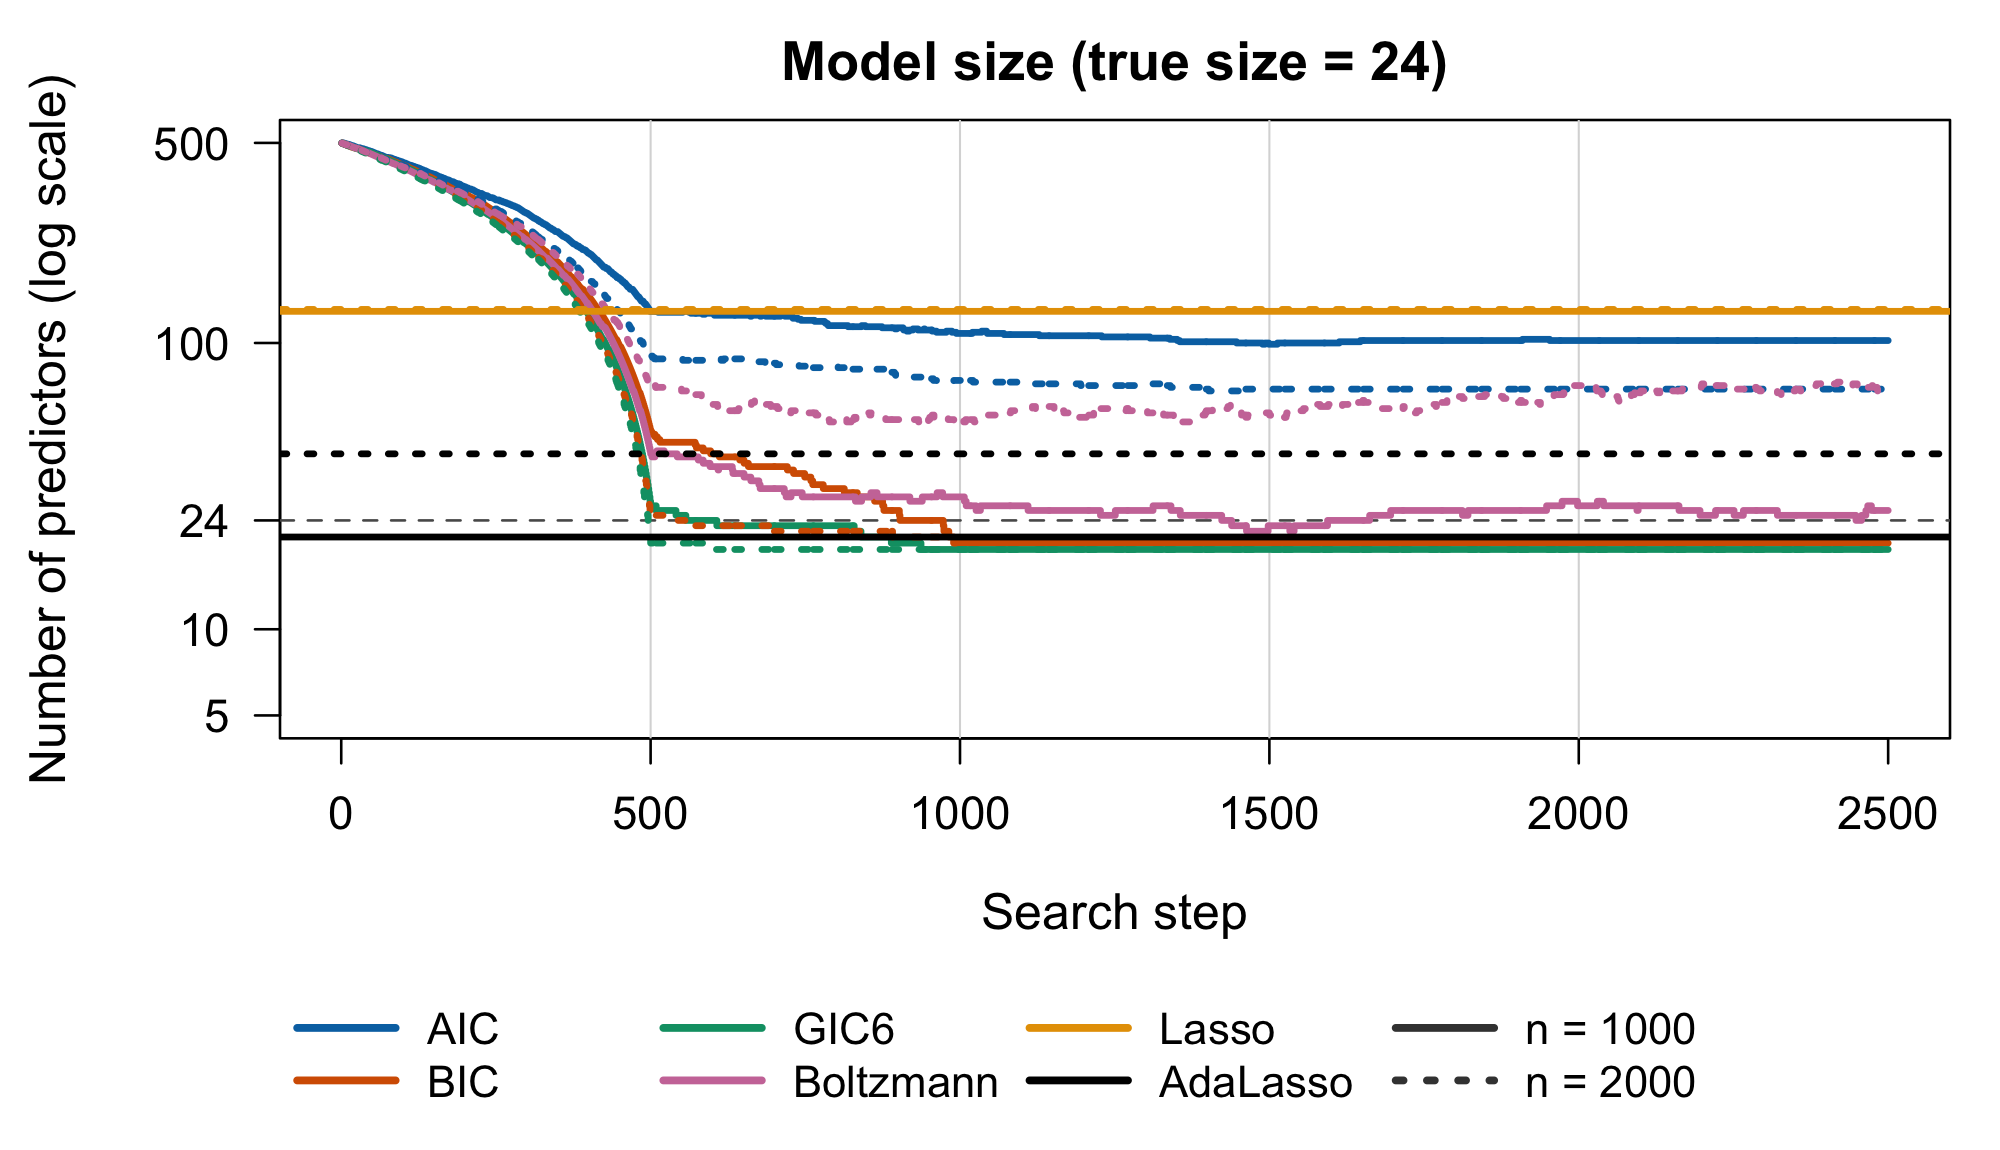
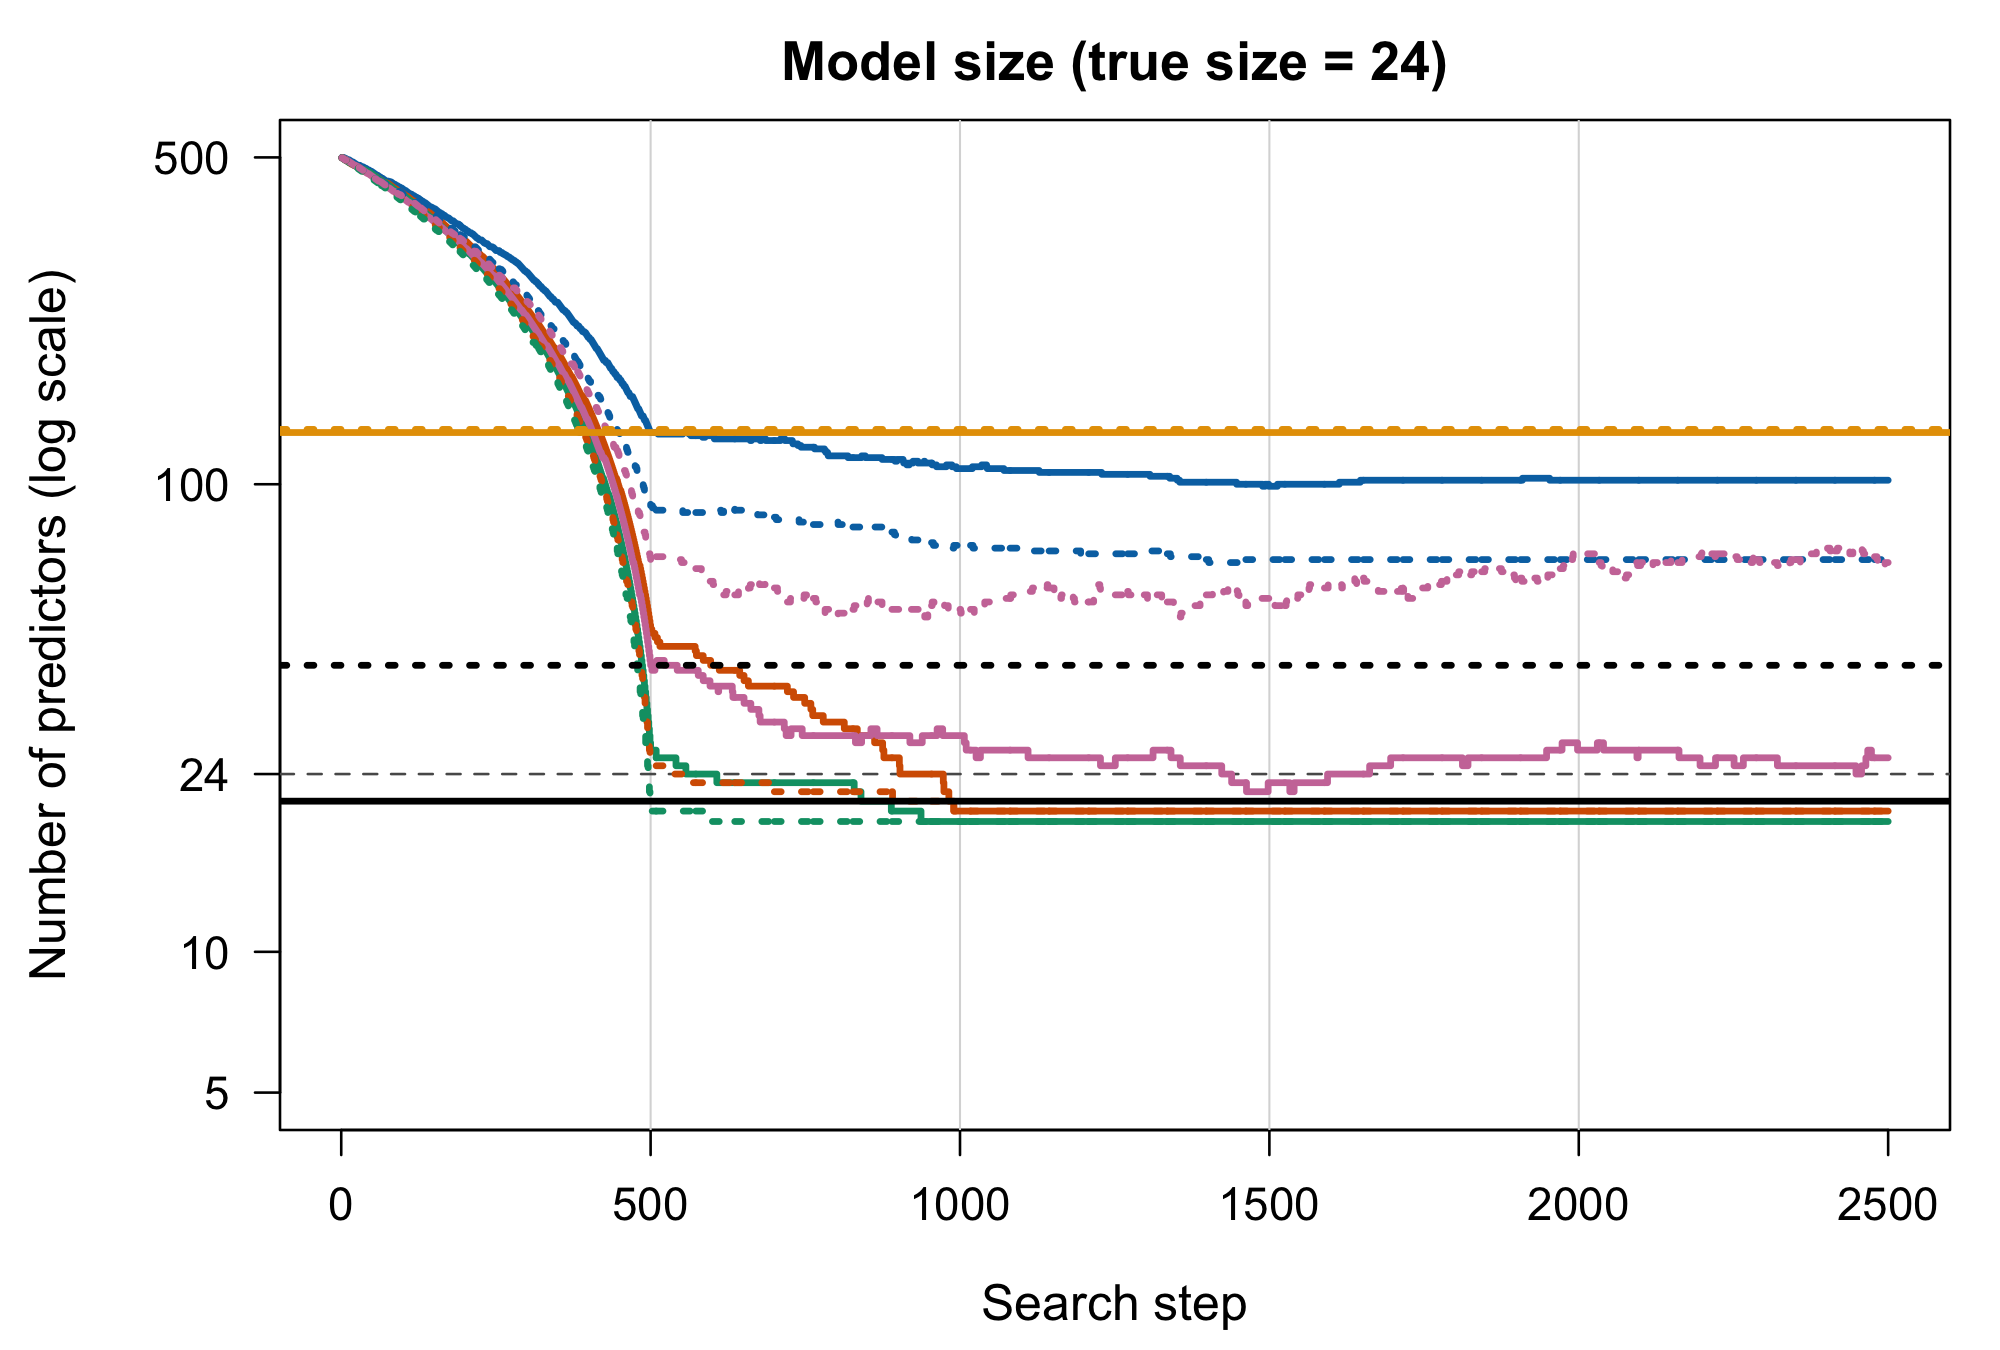
Examples: drop the figure legends and make the figures taller
The run-time figure labels each method's colour and the text says which line
type is which sample size, so the figures need no legend. Rerunning the
examples refreshed the run times.

diff --git a/README.md b/README.md
@@ -310,16 +310,16 @@ Y <- LP_to_Y(X, beta, family = "Normal", std = sqrt(sum(beta^2) / 0.71))
 fits <- compare_criteria(X, Y, 1:p, k = p, Nsim = 5)
 selection_table(fits, true_cols)
 #>                 size false_pos false_neg seconds
-#> n1000 AIC        152       147         0    0.61
-#> n1000 BIC          8         3         0    0.58
+#> n1000 AIC        152       147         0    0.63
+#> n1000 BIC          8         3         0    0.59
 #> n1000 GIC6         5         0         0    0.38
-#> n1000 Boltzmann    5         0         0    0.41
-#> n1000 Lasso       22        17         0    0.82
-#> n1000 AdaLasso    25        20         0    1.63
-#> n2000 AIC        116       111         0    0.63
-#> n2000 BIC          9         4         0    0.67
-#> n2000 GIC6         5         0         0    0.74
-#> n2000 Boltzmann    5         0         0    0.62
+#> n1000 Boltzmann    5         0         0    0.43
+#> n1000 Lasso       22        17         0    0.84
+#> n1000 AdaLasso    25        20         0    1.62
+#> n2000 AIC        116       111         0    0.67
+#> n2000 BIC          9         4         0    0.70
+#> n2000 GIC6         5         0         0    0.66
+#> n2000 Boltzmann    5         0         0    0.63
 #> n2000 Lasso       18        13         0    0.94
 #> n2000 AdaLasso    24        19         0    2.58
 ```
@@ -352,18 +352,18 @@ fits <- compare_criteria(X, Y_multi, 1:p, k = p, Nsim = 5,
                          lasso_family = "mgaussian", T = 0.05)
 selection_table(fits, true_union)
 #>                 size false_pos false_neg seconds
-#> n1000 AIC        102        80         2    0.51
-#> n1000 BIC         20         0         4    0.64
-#> n1000 GIC6        19         0         5    0.44
-#> n1000 Boltzmann   26         7         5    0.48
+#> n1000 AIC        102        80         2    0.44
+#> n1000 BIC         20         0         4    0.52
+#> n1000 GIC6        19         0         5    0.36
+#> n1000 Boltzmann   26         7         5    0.41
 #> n1000 Lasso      129       106         1    2.27
 #> n1000 AdaLasso    21         2         5    5.27
-#> n2000 AIC         69        45         0    0.65
-#> n2000 BIC         20         0         4    0.59
-#> n2000 GIC6        19         0         5    0.66
-#> n2000 Boltzmann   68        47         3    0.60
-#> n2000 Lasso      131       107         0    3.75
-#> n2000 AdaLasso    41        17         0    8.57
+#> n2000 AIC         69        45         0    0.67
+#> n2000 BIC         20         0         4    0.83
+#> n2000 GIC6        19         0         5    0.71
+#> n2000 Boltzmann   68        47         3    0.74
+#> n2000 Lasso      131       107         0    3.83
+#> n2000 AdaLasso    41        17         0    8.37
 ```
 
 ![Criterion along the search, multivariate normal response](man/figures/README-multivariate-criterion.png)
@@ -401,18 +401,18 @@ y_pois <- LP_to_Y(X, beta, family = "Poisson")
 fits <- compare_glm(y_pois, y_pois, "poisson", family = "Poisson", T = 0.001)
 selection_table(fits, true_cols)
 #>                 size false_pos false_neg seconds
-#> n1000 AIC         48        43         0    0.41
-#> n1000 BIC          9         4         0    0.13
-#> n1000 GIC6         5         0         0    0.02
+#> n1000 AIC         48        43         0    0.33
+#> n1000 BIC          9         4         0    0.06
+#> n1000 GIC6         5         0         0    0.07
 #> n1000 Boltzmann    5         0         0    0.02
-#> n1000 Lasso       29        24         0    1.93
-#> n1000 AdaLasso     5         0         0    2.14
-#> n2000 AIC         49        44         0    0.16
+#> n1000 Lasso       29        24         0    1.91
+#> n1000 AdaLasso     5         0         0    2.10
+#> n2000 AIC         49        44         0    0.06
 #> n2000 BIC         10         5         0    0.05
-#> n2000 GIC6         5         0         0    0.04
-#> n2000 Boltzmann    5         0         0    0.04
+#> n2000 GIC6         5         0         0    0.11
+#> n2000 Boltzmann    5         0         0    0.13
 #> n2000 Lasso       51        46         0    1.47
-#> n2000 AdaLasso     5         0         0    3.95
+#> n2000 AdaLasso     5         0         0    4.04
 
 # Coefficients of the GIC6 model for n = 2000, intercept first
 round(Beta_estimate(X[, last_model(fits$n2000$GIC6)], y_pois, family = "Poisson"), 2)
@@ -433,18 +433,18 @@ fits <- compare_glm(y_binom, cbind(10 - y_binom, y_binom), "binomial",
                     family = "Binomial", n_trials = 10)
 selection_table(fits, true_cols)
 #>                 size false_pos false_neg seconds
-#> n1000 AIC         49        46         2    0.21
+#> n1000 AIC         49        46         2    0.19
 #> n1000 BIC          7         2         0    0.03
-#> n1000 GIC6         5         0         0    0.08
+#> n1000 GIC6         5         0         0    0.02
 #> n1000 Boltzmann    5         0         0    0.02
-#> n1000 Lasso       29        24         0    1.48
-#> n1000 AdaLasso    35        30         0    2.91
-#> n2000 AIC         48        46         3    0.08
+#> n1000 Lasso       29        24         0    1.38
+#> n1000 AdaLasso    35        30         0    2.92
+#> n2000 AIC         48        46         3    0.06
 #> n2000 BIC          7         2         0    0.05
-#> n2000 GIC6         5         0         0    0.14
-#> n2000 Boltzmann    5         0         0    0.05
-#> n2000 Lasso       39        34         0    2.00
-#> n2000 AdaLasso     5         0         0    5.18
+#> n2000 GIC6         5         0         0    0.11
+#> n2000 Boltzmann    5         0         0    0.16
+#> n2000 Lasso       39        34         0    1.70
+#> n2000 AdaLasso     5         0         0    4.81
 ```
 
 ![Criterion along the search, binomial response](man/figures/README-binomial-criterion.png)
@@ -465,13 +465,13 @@ y_mn <- LP_to_Y(X, B_mn, family = "Multinomial", n_categories = 3)
 fits <- compare_glm(y_mn, NULL, NULL, family = "Multinomial", n_categories = 3)
 selection_table(fits, true_cols)
 #>                 size false_pos false_neg seconds
-#> n1000 AIC         49        47         3    0.14
+#> n1000 AIC         49        47         3    0.13
 #> n1000 BIC          7         2         0    0.03
 #> n1000 GIC6         5         0         0    0.03
-#> n1000 Boltzmann    5         0         0    0.04
-#> n2000 AIC         49        45         1    0.26
+#> n1000 Boltzmann    5         0         0    0.03
+#> n2000 AIC         49        45         1    0.13
 #> n2000 BIC          6         1         0    0.06
-#> n2000 GIC6         5         0         0    0.05
+#> n2000 GIC6         5         0         0    0.06
 #> n2000 Boltzmann   13         8         0    0.05
 ```
 
@@ -500,11 +500,11 @@ y_surv <- survival::Surv(y_cox[, "time"], y_cox[, "status"])
 fits <- compare_glm(y_cox, NULL, NULL, family = "Cox", T = 0.001)
 selection_table(fits, true_cols)
 #>                 size false_pos false_neg seconds
-#> n1000 AIC         49        47         3    0.63
+#> n1000 AIC         49        47         3    0.60
 #> n1000 BIC          9         4         0    0.02
 #> n1000 GIC6         5         0         0    0.02
-#> n1000 Boltzmann    5         0         0    0.02
-#> n2000 AIC         49        46         2    0.14
+#> n1000 Boltzmann    5         0         0    0.11
+#> n2000 AIC         49        46         2    0.12
 #> n2000 BIC         11         6         0    0.05
 #> n2000 GIC6         5         0         0    0.05
 #> n2000 Boltzmann    5         0         0    0.04
